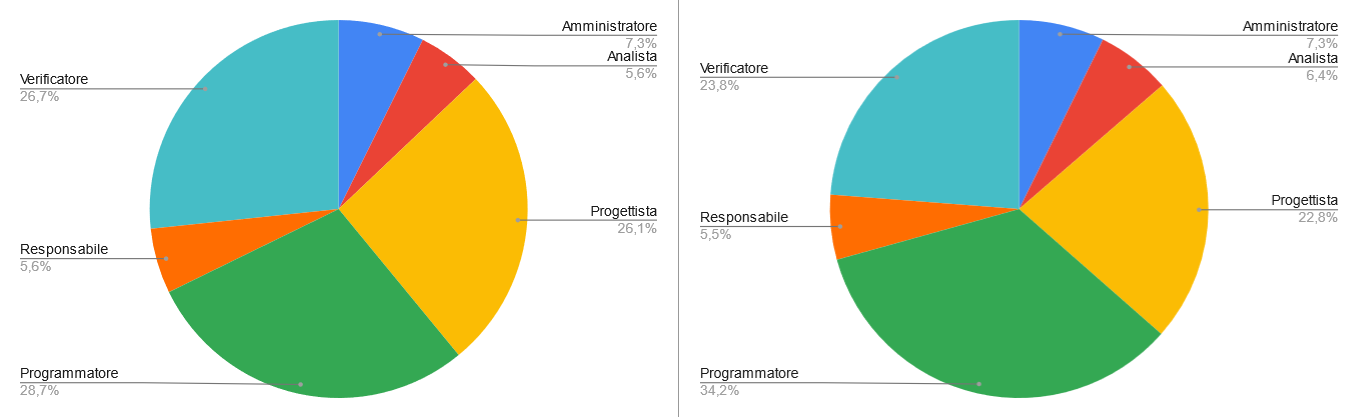
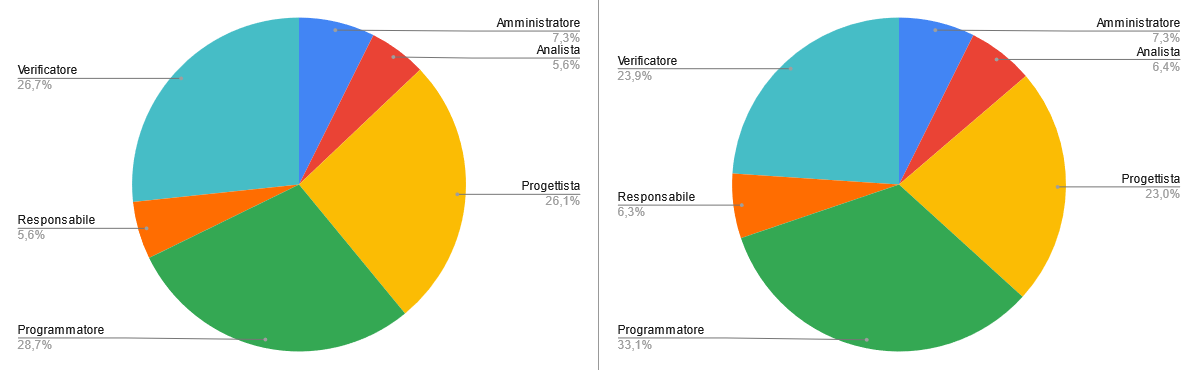
Aggiunta distribuzione oraria individuale

diff --git a/piano-di-progetto/source/sections/scostamento.tex b/piano-di-progetto/source/sections/scostamento.tex
@@ -1,4 +1,4 @@
-\section{Analisi degli scostamenti} 
+\section{Analisi degli scostamenti}
 
 \subsection{Consuntivo del periodo di analisi}
     \label{section:consultivo_analisi}
@@ -124,16 +124,16 @@
             i \euro\ 13664 preventivati.
 \subsection{Consultivo del periodo di verifica e collaudo}
     \subsubsection{Incremento 1}
-        Durante l'incremento sono stati implementati i casi d'uso \hyperref[table:pianificazione_verifica]{indicati nella pianificazione}. Sono stati inoltre implementati i casi d'uso previsti per il secondo incremento. Questo ha causato un leggero aumento delle ore rispetto a quanto preventivato. Questo permetterà durante l'incremento successivi di rimanere in linea con le previsioni, in quanto la settimana successiva la maggior parte del team sarà impegnata nella preparazione dell'esame teorico di Ingegneria del Software. All'incremento sono state dedicate in tutto \textbf{65 ore}, rendicontate nella seguente tabella.
+        Durante l'incremento sono stati implementati i casi d'uso \hyperref[table:pianificazione_verifica]{indicati nella pianificazione}. Sono stati inoltre implementati i casi d'uso previsti per il secondo incremento. Questo ha causato un leggero aumento delle ore rispetto a quanto preventivato. Questo permetterà durante l'incremento successivi di rimanere in linea con le previsioni, in quanto la settimana successiva la maggior parte del team sarà impegnata nella preparazione dell'esame teorico di Ingegneria del Software. All'incremento sono state dedicate in tutto \textbf{62 ore}, rendicontate nella seguente tabella.
         %startTable
         \def\salarycontent{
             {Amministratore,4,20,80},
             {Analista,      0,25,0},
             {Progettista,   10,22,220},
-            {Programmatore, 38,15,570},
+            {Programmatore, 35,15,525},
             {Responsabile,  3,30,90},
             {Verificatore,  10,15,150},
-            {Totale,        65,127, 1110},
+            {Totale,        62,127, 1075},
         }
         %endTable
         \input{source/tables/prospetto_economico.tex}
@@ -144,38 +144,38 @@
             {Amministratore,4,20,80},
             {Analista,      0,25,0},
             {Progettista,   5,22,110},
-            {Programmatore, 11,15,165},
-            {Responsabile,  3,30,90},
+            {Programmatore, 10,15,150},
+            {Responsabile,  4,30,120},
             {Verificatore,  2,15,30},
-            {Totale,        25,127,475},
+            {Totale,        25,127,490},
         }
         %endTable
         \input{source/tables/prospetto_economico.tex}
     \subsubsection{Incremento 3}
-        Le ore preventivate sono state rispettate: il team si è dedicato nella sua interezza all'implementazione dei test di unità e sistema. Inoltre sono state raccolti e preparati i dati rilevanti per le metriche da mostrare a cruscotto nel \PdQ . Segue la rendicontazione.
+        In totale sono state registrate meno ore rispetto a quanto rendicontate, \textbf{67 ore} contro 70. Il team si è dedicato nella sua interezza all'implementazione dei test di unità e sistema. Inoltre sono state raccolti e preparati i dati rilevanti per le metriche da mostrare a cruscotto nel \PdQ . Segue la rendicontazione.
         %startTable
         \def\salarycontent{
             {Amministratore,4,20,80},
             {Analista,      0,25,0},
             {Progettista,   10,22,220},
-            {Programmatore, 31,15,475},
-            {Responsabile,  5,30,150},
+            {Programmatore, 27,15,415},
+            {Responsabile,  6,30,180},
             {Verificatore,  20,15,300},
-            {Totale,        70,127,1215},
+            {Totale,        67,127,1185},
         }
         %endTable
         \input{source/tables/prospetto_economico.tex}
     \subsubsection{Incremento 4}
-        La coverage raggiunta non è ancora quella sufficiente indicata nel documento \PdQ\ il team ha deciso di dedicare ulteriori ore al testing e quindi all'attività di programmazione. Sono state tolte ore all'attività di verifica allo scopo di non superare l'offerta al proponente. Sono svolte le ultime attività di verifica. Nella tabella seguente è indicata la rendicontazione, per un totale di \textbf{20 ore} lavorative.
+        La coverage raggiunta non è ancora quella sufficiente indicata nel documento \PdQ\ il team ha deciso di dedicare ulteriori ore al testing e quindi all'attività di programmazione. Sono state tolte ore all'attività di verifica allo scopo di non superare l'offerta al proponente. Sono svolte le ultime attività di verifica. Nella tabella seguente è indicata la rendicontazione, per un totale di \textbf{29 ore} lavorative.
         %startTable
         \def\salarycontent{
             {Amministratore,4,20,80},
             {Analista,      0,25,0},
             {Progettista,   0,22,0},
-            {Programmatore, 12,15,180},
-            {Responsabile,  4,30,120},
+            {Programmatore, 10,15,180},
+            {Responsabile,  7,30,210},
             {Verificatore,  8,15,120},
-            {Totale,        28,127,500},
+            {Totale,        29,127,560},
         }
         %endTable
         \input{source/tables/prospetto_economico.tex}
@@ -191,11 +191,12 @@
             {Amministratore,16,20,320},
             {Analista,      0,25,0},
             {Progettista,   25,22,550},
-            {Programmatore, 92,15,1380},
-            {Responsabile,  15,30,450},
+            {Programmatore, 82,15,1230},
+            {Responsabile,  20,30,600},
             {Verificatore,  40,15,600},
             {Totale,        188,127,3300},
         }
+        Si noti inoltre che il ruolo di responsabile ha richiesto più ore rispetto a quanto preventivato, questo perchè la fase di revisione finale, nonché la stesura di questa sezione e la successiva hanno richiesto più impegno di quanto si pensasse inizialmente.
         %endTable
         \input{source/tables/prospetto_economico.tex}
         Segue un diagramma a torta che evidenzia la nuova distribuzione delle ore rispetto a quella preventivata inizialmente, che si può trovare al \hyperref[image:verifica_ruoli]{seguente collegamento}. 
@@ -235,33 +236,68 @@
         \input{source/tables/prospetto_economico.tex}
         L'offerta finale ammonta a \textbf{13638 euro}. Il team si è impegnato a rimanere in linea con l'offerta finale di \textbf{13664 euro}, quando necessario, ridistribuendo l'impegno orario tra i diversi ruoli. 
 \subsection{Conclusioni}
-        Seguono osservazioni sull'avanzamento dell'attività di progetto e alcune considerazioni finali.
-        \\ \\ \noindent
-        Inizialmente la pianificazione risultava superficiale e nonostante sia stato dichiarato l'utilizzo del modello incrementale, effettivamente è stato implementato una metodologia pseudo-sequenziale. Inoltre la pianificazione era specializzata sui singoli prodotti (durante la fase di analisi solo documentali), anziché concentrarsi globalmente sull'attività di progetto. A questo è stato posto rimedio nelle fasi successive, rendendo la pianificazione più fine (e precisa). Il periodo, solitamente coincidente con l'intervallo di tempo tra una revisione di avanzamento e la successiva, è stato diviso in segmenti denominati incrementi, della durata di una settimana circa. In ogni incremento sono individuate delle attività più rilevanti, ma sempre in modo piuttosto superficiale, in modo da permettere una certa elasticità al team. Questo ha permesso un controllo più fine dell'avanzamento del progetto. Solo nell'ultima fase è stato collegato ad ogni incremento un monte ore, permettendo oltre che un consuntivo più significativo, di adeguare di incremento in incremento l'impegno orario richiesto.
-        \\ \\ \noindent
-        Seguono due grafici che evidenziano lo stesso trend in modi differenti: 
-        \begin{itemize}
-            \item il primo ci permette di individuare con più facilità le modifiche apportate ai vari ruoli;
-            \item il secondo (i due grafici a torta) rende visibile la distribuzione oraria dei vari ruoli e le differenze tra il preventivato e quanto effettivamente è avvenuto.
-        \end{itemize}
-        \begin{figure}[H]
-            \centering
-            \includegraphics[width=\textwidth]{source/img/confronto_rendicontazione.png}
-            \caption{Confronto rendicontazione oraria tra distribuzione preventivata contro effettiva}
-        \end{figure}
-        \begin{figure}[H]
-            \centering
-            \includegraphics[width=\textwidth]{source/img/confronto_divisione_oraria.png}
-            \caption{A sinistra la divisione oraria preventivata, a destra la divisione oraria finale}
-        \end{figure}
-        I due grafici permettono le seguenti osservazioni:
-        \begin{itemize}
-            \item sebbene la distribuzione oraria sia effettivamente variata, la variazione non è significativa. Ciò dimostra un buon lavoro di pianificazione dei responsabili;
-            \item il \textbf{ruolo di programmatore} ha visto un incremento significativo di ore, soprattutto nell'ultima fase. Questo ruolo non era stato sottovalutato durante la pianificazione iniziale, ed era stata individuata la fase di progettazione di dettaglio e codifica come quella per cui sarebbe stato più richiesto il ruolo. Tuttavia era anche stato stimato che \hd\ e testing di quest'ultima sarebbero stati pressoché conclusi al termine della fase sopra citata. Questo non è accaduto, motivo per cui è stato richiesto un impegno importante al programmatore anche durante l'ultima fase di validazione e collaudo, per eseguire in modo soddisfacente il testing;
-            \item il \textbf{ruolo di verificatore} è stato considerato subito come essenziale, si può notare come al termine dell'attività di progetto il ruolo abbia richiesto meno ore rispetto a quanto preventivato. Questo è stato possibile grazie al consolidamento del way of working per cui ogni scatto di versione richiede una verifica, e ha reso l'attività in questione molto più agevole;
-            \item l'impegno orario dedicato al \textbf{ruolo di progettista} è stato invece sopravvalutato: parte della colpa va al linguaggio di programmazione richiesto, JavaScript, sebbene molto popolare, non particolarmente avanzato. Il team ha quindi deciso di utilizzare meno possibile i design pattern in quanto questi avrebbero richiesto o di utilizzare (e imparare) nuovi framework, oppure utilizzare artefici particolari per implementare costrutti non presenti nativamente nel linguaggio di programmazione utilizzato;
-            \item il \textbf{ruolo di analista} ha visto un incremento delle ore a lui inizialmente dedicate: questo denota un'iniziale superficialità, durante la fase di analisi, da parte degli analisti. A questo è stato posto rimedio nelle fasi successive, il lavoro degli analisti si concretizza nel \AdR\ ritenuto ormai un documento \textit{maturo};
-            \item i \textbf{ruoli di amministratore e responsabile} non hanno invece subito modifiche orarie, e i loro compiti sono rimasti i medesimi durante l'intera durata dell'attività di progetto, rispettivamente supervisione dell'ambiente di lavoro e manutenzione del documento Norme di Progetto, manutenzione del Piano di Progetto e approvazione dei documenti.
-        \end{itemize}
+    L'offerta finale ammonta a \textbf{13638 euro}, con una differenza in positivo rispetto a quanto preventivato inizialmente. Il team ritiene di aver portato a termine con successo l'attività di progetto e di aver prodotto artefatti documentali soddisfacenti e di aver raggiunto gli obiettivi richiesti dal capitolato \hd .
+    Seguono osservazioni sull'avanzamento dell'attività di progetto e alcune considerazioni finali.
+        \subsubsection{Pianificazione}
+          Inizialmente la pianificazione risultava superficiale e nonostante sia stato dichiarato l'utilizzo del modello incrementale, effettivamente è stato implementato una metodologia pseudo-sequenziale. Inoltre la pianificazione era specializzata sui singoli prodotti (durante la fase di analisi solo documentali), anziché concentrarsi globalmente sull'attività di progetto. A questo è stato posto rimedio nelle fasi successive, rendendo la pianificazione più fine (e precisa). Il periodo, solitamente coincidente con l'intervallo di tempo tra una revisione di avanzamento e la successiva, è stato diviso in segmenti denominati incrementi, della durata di una settimana circa. In ogni incremento sono individuate delle attività più rilevanti, ma sempre in modo piuttosto superficiale, in modo da permettere una certa elasticità al team. Questo ha permesso un controllo più fine dell'avanzamento del progetto. Solo nell'ultima fase è stato collegato ad ogni incremento un monte ore, permettendo oltre che un consuntivo più significativo, di adeguare di incremento in incremento l'impegno orario richiesto.
+        \subsubsection{Distribuzione oraria dei ruoli}
+            Seguono due grafici che evidenziano lo stesso trend in modi differenti: 
+            \begin{itemize}
+                \item il primo ci permette di individuare con più facilità le modifiche apportate ai vari ruoli;
+                \item il secondo (i due grafici a torta) rende visibile la distribuzione oraria dei vari ruoli e le differenze tra il preventivato e quanto effettivamente è avvenuto.
+            \end{itemize}
+            \begin{figure}[H]
+                \centering
+                \includegraphics[width=\textwidth]{source/img/confronto_rendicontazione.png}
+                \caption{Confronto rendicontazione oraria tra distribuzione preventivata contro effettiva}
+            \end{figure}
+            \begin{figure}[H]
+                \centering
+                \includegraphics[width=\textwidth]{source/img/confronto_divisione_oraria.png}
+                \caption{A sinistra la divisione oraria preventivata, a destra la divisione oraria finale}
+            \end{figure}
+            I due grafici permettono le seguenti osservazioni:
+            \begin{itemize}
+                \item sebbene la distribuzione oraria sia effettivamente variata, la variazione non è significativa. Ciò dimostra un buon lavoro di pianificazione dei responsabili;
+                \item il \textbf{ruolo di programmatore} ha visto un incremento significativo di ore, soprattutto nell'ultima fase. Questo ruolo non era stato sottovalutato durante la pianificazione iniziale, ed era stata individuata la fase di progettazione di dettaglio e codifica come quella per cui sarebbe stato più richiesto il ruolo. Tuttavia era anche stato stimato che \hd\ e testing di quest'ultima sarebbero stati pressoché conclusi al termine della fase sopra citata. Questo non è accaduto, motivo per cui è stato richiesto un impegno importante al programmatore anche durante l'ultima fase di validazione e collaudo, per eseguire in modo soddisfacente il testing;
+                \item il \textbf{ruolo di verificatore} è stato considerato subito come essenziale, si può notare come al termine dell'attività di progetto il ruolo abbia richiesto meno ore rispetto a quanto preventivato. Questo è stato possibile grazie al consolidamento del way of working per cui ogni scatto di versione richiede una verifica, e ha reso l'attività in questione molto più agevole;
+                \item l'impegno orario dedicato al \textbf{ruolo di progettista} è stato invece sopravvalutato: parte della colpa va al linguaggio di programmazione richiesto, JavaScript, sebbene molto popolare, non particolarmente avanzato. Il team ha quindi deciso di utilizzare meno possibile i design pattern in quanto questi avrebbero richiesto o di utilizzare (e imparare) nuovi framework, oppure utilizzare artefici particolari per implementare costrutti non presenti nativamente nel linguaggio di programmazione utilizzato;
+                \item il \textbf{ruolo di analista} ha visto un incremento delle ore a lui inizialmente dedicate: questo denota un'iniziale superficialità, durante la fase di analisi, da parte degli analisti. A questo è stato posto rimedio nelle fasi successive, il lavoro degli analisti si concretizza nel \AdR\ ritenuto ormai un documento \textit{maturo};
+                \item i \textbf{ruoli di amministratore e responsabile} non hanno invece subito modifiche orarie, e i loro compiti sono rimasti i medesimi durante l'intera durata dell'attività di progetto, rispettivamente supervisione dell'ambiente di lavoro e manutenzione del documento Norme di Progetto, manutenzione del Piano di Progetto e approvazione dei documenti.
+            \end{itemize}
         \noindent
-        L'offerta finale ammonta a \textbf{13638 euro}, con una differenza in positivo rispetto a quanto preventivato inizialmente. Il team ritiene di aver portato a termine con successo l'attività di progetto e di aver prodotto artefatti documentali soddisfacenti e di aver raggiunto gli obiettivi richiesti dal capitolato \hd .
+
+        \subsubsection{Distribuzione oraria tra i membri del team}
+            Nella seguente tabella è riportata la distribuzione oraria dei ruoli per i singoli membri di \cod , oltre alla tabella sono riportati a confronto i diagrammi della divisione oraria dei ruoli per membro.
+            
+            %startTable
+            \def\hourlycontent{
+            {Andrea Breggion,   5,21,4,11(-7),40(+7),24,105},
+            {Matteo Falsetti,   5,5,5,33,27(+7),30(-7),105},
+            {Alessandro Flori,  10(+5),4,7,18(-10),27(+4),39,105},
+            {Andrea Mascari,    4,6,11(+6),25(-6),33,26,105},
+            {Diego Piola,       12,6,9,26,37(+3),15(-3),105},
+            {Andrea Signori,    4,6,6,26,36,27,105},
+            {Damiano Zanardo,   6,6,5,30,43(+10),15(-10),105},
+            {Ore totali,        46(+5),54,47(+6),169(-23),243(+32),176(-20),735},
+            }
+            %endTable
+            \input{source/tables/prospetto_orario.tex}
+
+            \begin{figure}[H]
+                \centering
+                \begin{minipage}[b]{0.4\textwidth}
+                  \includegraphics[width=\textwidth]{source/img/no_investimento_orari.png}
+                  \caption{Divisione oraria preventivata}
+                \end{minipage}
+                \hfill
+                \begin{minipage}[b]{0.4\textwidth}
+                  \includegraphics[width=\textwidth]{source/img/no_investimento_orari_effettivo.png}
+                  \caption{Divisione oraria effettiva}
+                \end{minipage}
+            \end{figure}
+
+            Quanto proposto sopra permette un'osservazione: l'attività di progetto è stata estremamente collaborativa e ogni membro ha svolto ogni ruolo. Si può notare inoltre che non c'è un vero e proprio responsabile di progetto, questo ha forzato il team a comunicare e ogni decisione è stata presa collettivamente.
+            In generale la distribuzione delle ore non è cambiata particolarmente rispetto a quanto previsto inizialmente. Questo perché l'orario già a inizio di attività di progetto era stato pensato in modo da accomodare le attitudini e preferenze di ogni membro del gruppo. Si noti che ogni membro del team ha visto incrementarsi le ore del ruolo di programmatore, la motivazione è già stata spiegata nella situazione precedente.
+
+       

diff --git a/piano-di-progetto/source/sections/preventivo.tex b/piano-di-progetto/source/sections/preventivo.tex
@@ -38,7 +38,7 @@ Si noti che nelle tabelle sono state utilizzate delle sigle, definite nelle \NdP
     \begin{figure}[H]
         \centering
         \includegraphics[width=0.8\textwidth]{source/img/analisi_ruoli.png}
-        \caption{costo del personale nella fase di analisi}
+        \caption{Costo del personale nella fase di analisi}
     \end{figure}
 \subsection{Consolidamento dei requisiti}
     \subsubsection{Prospetto orario}
@@ -58,7 +58,7 @@ Si noti che nelle tabelle sono state utilizzate delle sigle, definite nelle \NdP
     \begin{figure}[H]
         \centering
         \includegraphics[width=0.8\textwidth]{source/img/consolidamento_orari.png}
-        \caption{divisione oraria dell'attività di consolidamento dei requisiti}
+        \caption{Divisione oraria dell'attività di consolidamento dei requisiti}
     \end{figure}
     \subsubsection{Prospetto economico}
     %startTable
@@ -76,7 +76,7 @@ Si noti che nelle tabelle sono state utilizzate delle sigle, definite nelle \NdP
     \begin{figure}[H]
         \centering
         \includegraphics[width=0.8\textwidth]{source/img/consolidamento_ruoli.png}
-        \caption{costo del personale nella fase di consolidamento dei requisiti}
+        \caption{Costo del personale nella fase di consolidamento dei requisiti}
     \end{figure}
 \subsection{Progettazione architetturale}
     \subsubsection{Prospetto orario}
@@ -96,7 +96,7 @@ Si noti che nelle tabelle sono state utilizzate delle sigle, definite nelle \NdP
     \begin{figure}[H]
         \centering
         \includegraphics[width=0.8\textwidth]{source/img/architettura_orari.png}
-        \caption{divisione oraria dell'attività di progettazione architetturale}
+        \caption{Divisione oraria dell'attività di progettazione architetturale}
     \end{figure}
     \subsubsection{Prospetto economico}
     %startTable
@@ -114,7 +114,7 @@ Si noti che nelle tabelle sono state utilizzate delle sigle, definite nelle \NdP
     \begin{figure}[H]
         \centering
         \includegraphics[width=0.8\textwidth]{source/img/architettura_ruoli.png}
-        \caption{costo del personale nella fase di progettazione architetturale}
+        \caption{Costo del personale nella fase di progettazione architetturale}
     \end{figure}
 \subsection{Progettazione di dettaglio e codifica}
     \subsubsection{Prospetto orario}
@@ -135,7 +135,7 @@ Si noti che nelle tabelle sono state utilizzate delle sigle, definite nelle \NdP
     \begin{figure}[H]
         \centering
         \includegraphics[width=0.8\textwidth]{source/img/codifica_orari.png}
-        \caption{divisione oraria dell'attività di progettazione di dettaglio e codifica}
+        \caption{Divisione oraria dell'attività di progettazione di dettaglio e codifica}
     \end{figure}
     \subsubsection{Prospetto economico}
     %startTable
@@ -153,7 +153,7 @@ Si noti che nelle tabelle sono state utilizzate delle sigle, definite nelle \NdP
     \begin{figure}[H]
         \centering
         \includegraphics[width=0.8\textwidth]{source/img/codifica_ruoli.png}
-        \caption{costo del personale nella fase di progettazione di dettaglio e codifica}
+        \caption{Costo del personale nella fase di progettazione di dettaglio e codifica}
     \end{figure}
 \subsection{Validazione e collaudo}
     \subsubsection{Prospetto orario}
@@ -173,7 +173,7 @@ Si noti che nelle tabelle sono state utilizzate delle sigle, definite nelle \NdP
     \begin{figure}[H]
         \centering
         \includegraphics[width=0.8\textwidth]{source/img/validazione_orari.png}
-        \caption{divisione oraria dell'attività di validazione e collaudo}
+        \caption{Divisione oraria dell'attività di validazione e collaudo}
     \end{figure}
     \subsubsection{Prospetto economico}
     %startTable
@@ -192,7 +192,7 @@ Si noti che nelle tabelle sono state utilizzate delle sigle, definite nelle \NdP
     \begin{figure}[H]
         \centering
         \includegraphics[width=0.8\textwidth]{source/img/validazione_ruoli.png}
-        \caption{costo del personale nella fase di validazione e collaudo}
+        \caption{Costo del personale nella fase di validazione e collaudo}
     \end{figure}
 \subsection{Riepilogo}
     \subsection{Ore totali}
@@ -215,7 +215,7 @@ Si noti che nelle tabelle sono state utilizzate delle sigle, definite nelle \NdP
         \begin{figure}[H]
             \centering
             \includegraphics[width=0.8\textwidth]{source/img/totale_orari.png}
-            \caption{divisione oraria complessiva}
+            \caption{Divisione oraria complessiva}
         \end{figure}
         \paragraph{Prospetto economico}
         
@@ -234,7 +234,7 @@ Si noti che nelle tabelle sono state utilizzate delle sigle, definite nelle \NdP
         \begin{figure}[H]
             \centering
             \includegraphics[width=0.8\textwidth]{source/img/totale_ruoli.png}
-            \caption{costo del personale complessivo}
+            \caption{Costo del personale complessivo}
         \end{figure}
     \subsection{Ore rendicontate}
     All'interno di questa sottosezione è contenuto il riepilogo delle ore dedicate all'attività di progetto nonché il riepilogo dei costi relativi al periodo successivo alla RR.
@@ -256,7 +256,7 @@ Si noti che nelle tabelle sono state utilizzate delle sigle, definite nelle \NdP
         \begin{figure}[H]
             \centering
             \includegraphics[width=0.8\textwidth]{source/img/no_investimento_orari.png}
-            \caption{divisione oraria totale senza l'investimento iniziale}
+            \caption{Divisione oraria totale senza l'investimento iniziale}
         \end{figure}
         \paragraph{Prospetto economico}
         
@@ -275,7 +275,7 @@ Si noti che nelle tabelle sono state utilizzate delle sigle, definite nelle \NdP
         \begin{figure}[H]
             \centering
             \includegraphics[width=0.8\textwidth]{source/img/consolidamento_orari.png}
-            \caption{costo totale del personale senza l'investimento iniziale}
+            \caption{Costo totale del personale senza l'investimento iniziale}
         \end{figure}
     \subsection{Conclusioni}
     All'interno della tabella di cui sopra è indicata l'offerta con cui Code of Duty si presenta al committente. Tale somma ammonta a \euro\ 13664.

diff --git a/piano-di-progetto/source/changelog.tex b/piano-di-progetto/source/changelog.tex
@@ -3,7 +3,7 @@
 \def\modifiche{
     {4.0.0, 2021-05-21, Andrea Mascari, Responsabile, -, Approvazione del documento per RA},
     {3.2.0, 2021-05-21, Andrea Signori, Verificatore, -, Verifica del documento},
-    {3.1.2, 2021-05-20, Alessandro Flori, Responsabile, Andrea Mascari, Analisi1degli scostamenti{,} consultivo di periodo e conclusioni},
+    {3.1.2, 2021-05-20, Alessandro Flori, Responsabile, Andrea Mascari, Analisi degli scostamenti{,} consultivo di periodo e conclusioni},
     {3.1.1, 2021-05-20, Alessandro Flori, Responsabile, Matteo Falsetti, Consuntivo periodo incremento 4 fase di validazione e collaudo},
     {3.1.0, 2021-05-16, Diego Piola, Verificatore, -, Verifica del documento},
     {3.0.4, 2021-05-16, Alessandro Flori, Responsabile, Andrea Mascari, Consuntivo periodo incremento 3 fase di validazione e collaudo},

diff --git a/piano-di-progetto/source/title_page.tex b/piano-di-progetto/source/title_page.tex
@@ -1,6 +1,6 @@
 \newcommand{\titolodocumento}{Piano di progetto} % Titolo documento
-\newcommand{\versione}{3.0.0} % Versione documento
-\newcommand{\approvazione}{Diego Piola} % Responsabile di progetto
+\newcommand{\versione}{4.0.0} % Versione documento
+\newcommand{\approvazione}{Andrea Mascari} % Responsabile di progetto
 \newcommand{\redazione}{\parbox[t]{4cm}{Alessandro Flori\\Andrea Signori \\ Diego Piola \\ Andrea Mascari \\ Andrea Breggion \\ Matteo Falsetti}} % Redattori di questo documento
 \newcommand{\verifica}{\parbox[t]{4cm}{Alessandro Flori\\Andrea Signori\\Andrea Breggion\\Matteo Falsetti}} % Verificatori di questo documento
 \newcommand{\stato}{Approvato} % Approvato
